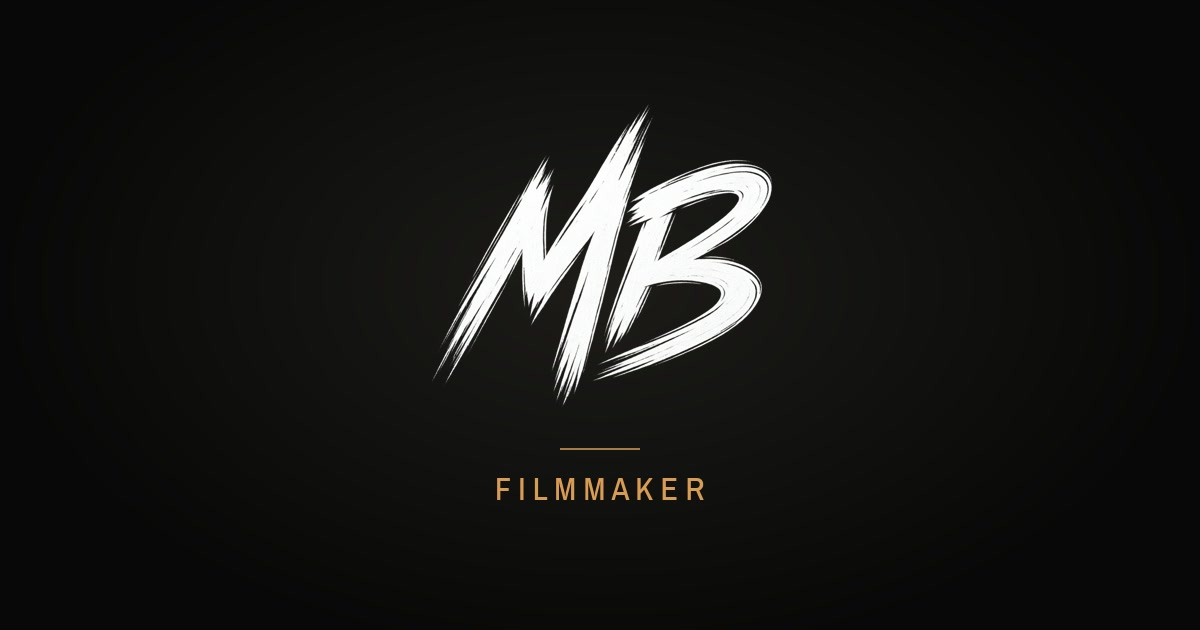
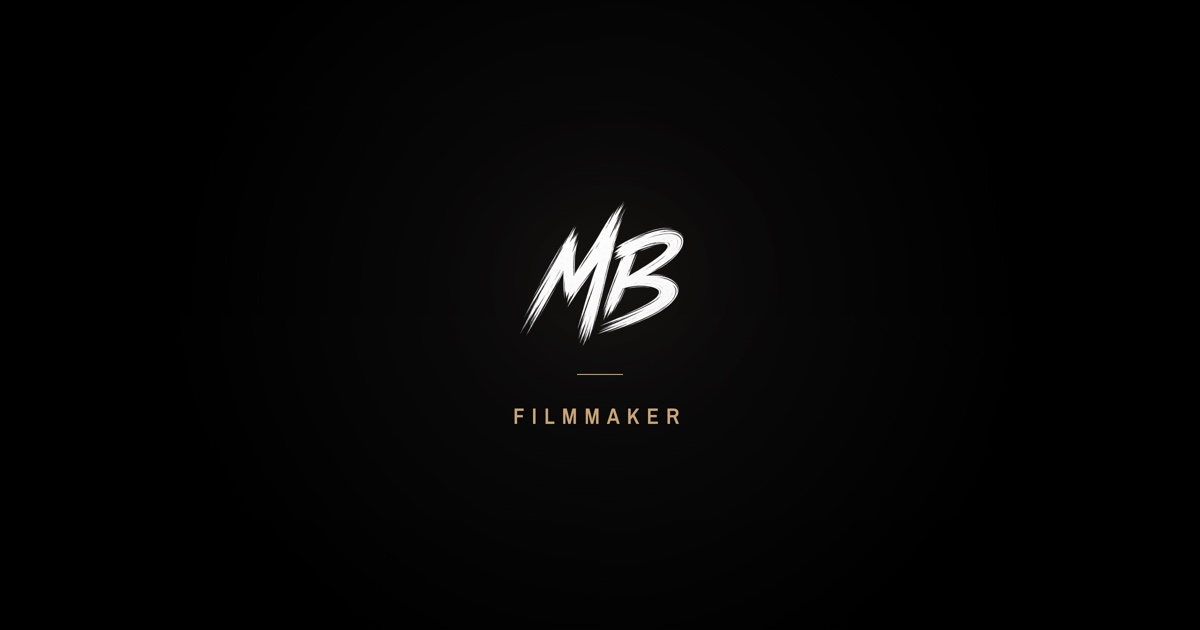
Booking: distinct link title and share thumbnail
- Set the /booking route's title/og/twitter metadata to "Booking with
  MB" instead of inheriting "VIZUAL BY MB" from the root layout, and
  fixed the canonical URL (was the non-existent book.vizualbymb.com).
- Added a booking-specific opengraph-image.jpg: black background, MB
  mark, "THE BOOKING ROOM" label, VIZUAL BY MB / booking.vizualbymb.com
  footer strip — distinct from the portfolio site's "FILMMAKER" card.
- Replaced the portfolio site's opengraph-image.jpg with a pure-black
  version of the same card, bumped its cache-busting query (v4 -> v5).
- Dropped "including selected add-ons" from the default balance policy
  text, since add-ons aren't currently offered in the booking flow.

Changed region(s): [[0.37, 0.181, 0.6475, 0.7238], [0.4008, 0.754, 0.5858, 0.8143]]

diff --git a/app/booking/layout.tsx b/app/booking/layout.tsx
@@ -3,12 +3,16 @@ import Image from "next/image";
 import { ArrowUpRight } from "lucide-react";
 import styles from "./portal.module.css";
 
+const description = "A considered booking experience for films, brands, and the stories in between. Massachusetts + Rhode Island.";
+
 export const metadata: Metadata = {
-  title: { absolute: "Book a production — VIZUAL BY MB", template: "%s — VIZUAL BY MB" },
-  description: "A considered booking experience for films, brands, and the stories in between. Massachusetts + Rhode Island.",
-  alternates: { canonical: "https://book.vizualbymb.com" },
+  title: { absolute: "Booking with MB", template: "%s — Booking with MB" },
+  description,
+  alternates: { canonical: "https://booking.vizualbymb.com" },
   robots: { index: false, follow: false },
   referrer: "no-referrer",
+  openGraph: { type: "website", url: "https://booking.vizualbymb.com", title: "Booking with MB", description, siteName: "VIZUAL BY MB" },
+  twitter: { card: "summary_large_image", title: "Booking with MB", description },
 };
 
 export default function BookingLayout({ children }: { children: React.ReactNode }) {

diff --git a/lib/booking/config.ts b/lib/booking/config.ts
@@ -13,7 +13,7 @@ export const bookingPolicies = () => ({
   version: process.env.BOOKING_POLICY_VERSION || "draft-1",
   cancellation: process.env.BOOKING_CANCELLATION_POLICY || "Cancellation and deposit refund terms will be published before bookings open.",
   rescheduling: process.env.BOOKING_RESCHEDULING_POLICY || "Rescheduling notice and date-change terms will be published before bookings open.",
-  balance: process.env.BOOKING_BALANCE_POLICY || "The remaining balance, including selected add-ons, is invoiced separately. Payment timing will be agreed before booking.",
+  balance: process.env.BOOKING_BALANCE_POLICY || "The remaining balance is invoiced separately. Payment timing will be agreed before booking.",
 });
 export function bookingEnabled() {
   const redisUrl = process.env.UPSTASH_REDIS_REST_URL || process.env.KV_REST_API_URL;

diff --git a/app/layout.tsx b/app/layout.tsx
@@ -22,13 +22,13 @@ export const metadata: Metadata = {
     url: "/",
     title: "VIZUAL BY MB",
     description: "Cinematic films, campaigns, and social stories shaped from concept through final frame.",
-    images: [{ url: "/opengraph-image.jpg?v=4", width: 1200, height: 630, alt: "VIZUAL BY MB logo — Filmmaker" }],
+    images: [{ url: "/opengraph-image.jpg?v=5", width: 1200, height: 630, alt: "VIZUAL BY MB logo — Filmmaker" }],
   },
   twitter: {
     card: "summary_large_image",
     title: "VIZUAL BY MB",
     description: "Cinematic films, campaigns, and social stories shaped from concept through final frame.",
-    images: ["/opengraph-image.jpg?v=4"],
+    images: ["/opengraph-image.jpg?v=5"],
   },
 };
 
